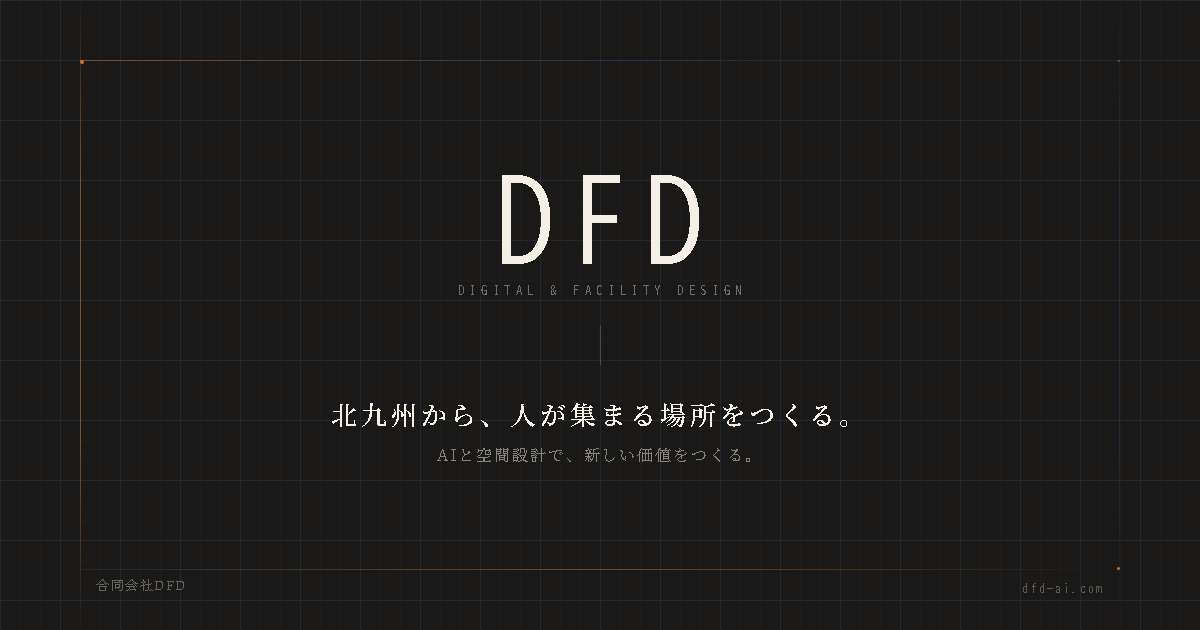
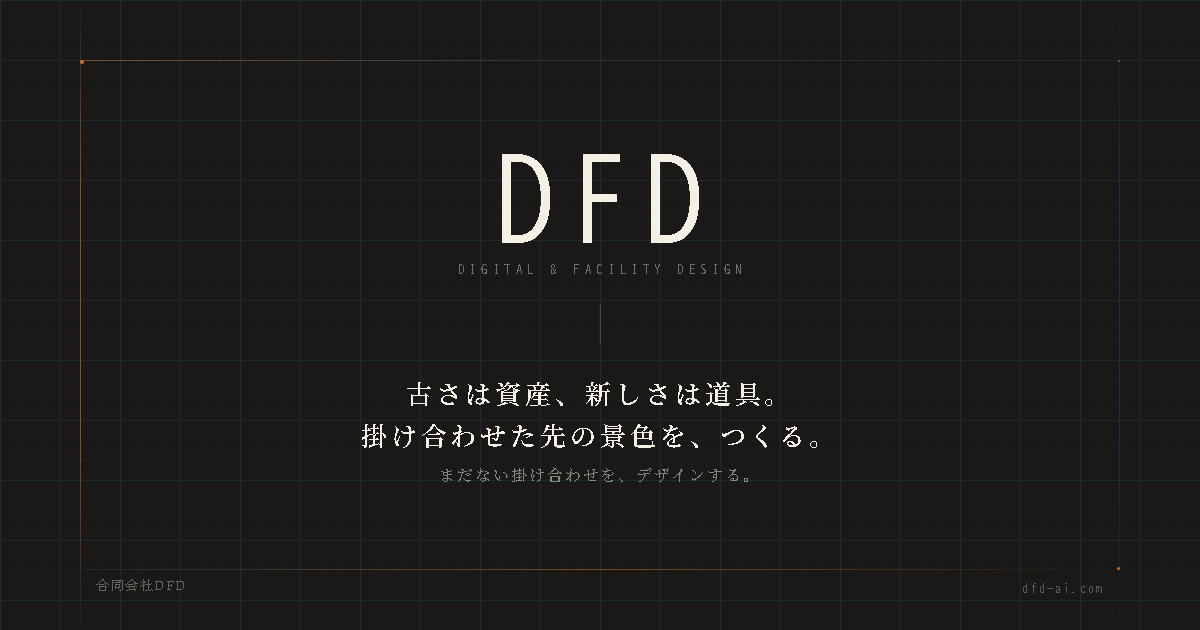
feat: 経営理念・コピーを新メッセージに全面改訂
- メインコピーを「古さは資産、新しさは道具。掛け合わせた先の景色を、つくる。」に統一
- ヒーローを縦書き2列（右→左の読み順）に変更、サブコピーも刷新
- company.html ミッション/バリュー(D→F→D)を新内容に更新、英字ラベル Digital/Facility/Design を追加
- OGP description と ogp.png を新コピーで再生成
- 旧コピー「北九州から〜」「AIと空間設計で〜」を全ページから削除

Changed region(s): [[0.2775, 0.6032, 0.7092, 0.754], [0.4008, 0.2413, 0.5858, 0.4222], [0.5858, 0.7238, 0.6167, 0.754]]

diff --git a/company.html b/company.html
@@ -9,7 +9,7 @@
   <!-- OGP -->
   <meta property="og:type"        content="article">
   <meta property="og:title"       content="会社概要 — 合同会社DFD">
-  <meta property="og:description" content="合同会社DFDの会社概要。北九州市を拠点に、民泊・不動産再生・AIソリューション・Webマーケティングを手がけます。">
+  <meta property="og:description" content="古さは資産、新しさは道具。掛け合わせた先の景色を、つくる。合同会社DFDの会社概要・経営理念。">
   <meta property="og:url"         content="https://dfd-ai.com/company.html">
   <meta property="og:image"       content="https://dfd-ai.com/ogp.png">
   <meta name="twitter:card"       content="summary_large_image">
@@ -158,8 +158,18 @@
       font-size: 18px;
       font-weight: 600;
       color: var(--sumi);
-      margin-bottom: 10px;
+      margin-bottom: 6px;
       line-height: 1.5;
+    }
+
+    .value-en {
+      font-family: var(--font-mono);
+      font-size: 10px;
+      font-weight: 400;
+      letter-spacing: 0.25em;
+      text-transform: uppercase;
+      color: var(--aitetsu);
+      margin-bottom: 12px;
     }
 
     .value-body {
@@ -228,7 +238,7 @@
     <!-- ミッション -->
     <div class="phil-block fade-in">
       <p class="phil-block-label">Mission — 存在意義</p>
-      <p class="phil-block-text">北九州から、人が集まる場所をつくる。</p>
+      <p class="phil-block-text">古さは資産、新しさは道具。<br>掛け合わせた先の景色を、つくる。</p>
     </div>
 
     <div class="phil-sep" aria-hidden="true"></div>
@@ -249,21 +259,24 @@
         <div class="value-item">
           <div class="value-letter" aria-hidden="true">D</div>
           <div class="value-content">
-            <p class="value-title">道具は最先端、商いは誠実に。</p>
+            <p class="value-en">Digital</p>
+            <p class="value-title">最先端の技術で、新しい景色をつくる。</p>
             <p class="value-body">AIや新しい技術は徹底的に使う。ただし主役はあくまで人と場所。技術で奇をてらわない。</p>
           </div>
         </div>
         <div class="value-item">
           <div class="value-letter" aria-hidden="true">F</div>
           <div class="value-content">
-            <p class="value-title">壊さず、活かす。</p>
+            <p class="value-en">Facility</p>
+            <p class="value-title">場所に意味を与え、人の集まる場をつくる。</p>
             <p class="value-body">スクラップ＆ビルドではなく再生。古い建物に新しい役割を与える。</p>
           </div>
         </div>
         <div class="value-item">
           <div class="value-letter" aria-hidden="true">D</div>
           <div class="value-content">
-            <p class="value-title">小さく試し、早く学ぶ。</p>
+            <p class="value-en">Design</p>
+            <p class="value-title">企画の力で、まだ無い価値をつくる。</p>
             <p class="value-body">大きな賭けはしない。撤退の基準を決めてから始め、学びを次に活かす。</p>
           </div>
         </div>
@@ -346,8 +359,8 @@
 <!-- ミッション -->
 <div class="mission-band">
   <blockquote class="fade-in">
-    北九州から、人が集まる場所をつくる。<br>
-    AIと空間設計で、新しい価値をつくる。
+    古さは資産、新しさは道具。<br>
+    掛け合わせた先の景色を、つくる。
     <cite>— DFD Mission Statement</cite>
   </blockquote>
 </div>

diff --git a/index.html b/index.html
@@ -4,12 +4,12 @@
   <meta charset="UTF-8">
   <meta name="viewport" content="width=device-width, initial-scale=1.0">
   <title>合同会社DFD — Digital &amp; Facility Design</title>
-  <meta name="description" content="北九州を拠点に、民泊・不動産再生・AIソリューション・Webマーケティングで人が集まる場所をつくる合同会社DFDの公式サイトです。">
+  <meta name="description" content="古さは資産、新しさは道具。掛け合わせた先の景色を、つくる。北九州を拠点に、民泊・不動産再生・AIソリューション・Webマーケティングを手がける合同会社DFDの公式サイトです。">
 
   <!-- OGP -->
   <meta property="og:type"        content="website">
   <meta property="og:title"       content="合同会社DFD — Digital &amp; Facility Design">
-  <meta property="og:description" content="北九州から、人が集まる場所をつくる。AIと空間設計で、新しい価値をつくる。">
+  <meta property="og:description" content="古さは資産、新しさは道具。掛け合わせた先の景色を、つくる。合同会社DFD — Digital & Facility Design">
   <meta property="og:url"         content="https://dfd-ai.com/">
   <meta property="og:image"       content="https://dfd-ai.com/ogp.png">
   <meta name="twitter:card"       content="summary_large_image">
@@ -74,27 +74,27 @@
       margin: 32px auto;
     }
 
-    /* メインコピー */
+    /* メインコピー（縦書き2列） */
     .hero-copy-wrap {
       display: flex;
+      flex-direction: row-reverse;
       justify-content: center;
+      gap: 20px;
     }
 
     .hero-copy {
+      writing-mode: vertical-rl;
       font-family: var(--font-mincho);
       font-size: clamp(20px, 3.5vw, 32px);
       font-weight: 600;
       color: var(--kinari);
       letter-spacing: 0.15em;
-      line-height: 1.8;
-      text-align: center;
-      padding: 0 16px;
+      line-height: 1.6;
     }
 
-    .sp-only { display: none; }
-
     @media (max-width: 480px) {
-      .sp-only { display: inline; }
+      .hero-copy-wrap { gap: 12px; }
+      .hero-copy { font-size: clamp(18px, 6vw, 26px); }
     }
 
     .hero-sub {
@@ -292,9 +292,10 @@
     <div class="hero-logo-sub">Digital &amp; Facility Design</div>
     <div class="hero-divider" aria-hidden="true"></div>
     <div class="hero-copy-wrap">
-      <p class="hero-copy">北九州から、<br class="sp-only">人が集まる場所をつくる。</p>
+      <p class="hero-copy">古さは資産、新しさは道具。</p>
+      <p class="hero-copy">掛け合わせた先の景色を、つくる。</p>
     </div>
-    <p class="hero-sub">AIと空間設計で、新しい価値をつくる。</p>
+    <p class="hero-sub">まだない掛け合わせを、デザインする。</p>
     <div class="hero-cta">
       <a href="services.html" class="btn btn--light">事業内容を見る</a>
     </div>

diff --git a/ogp-gen.html b/ogp-gen.html
@@ -194,8 +194,8 @@
     <div class="logo-dfd">DFD</div>
     <div class="logo-en">Digital &amp; Facility Design</div>
     <div class="divider"></div>
-    <div class="tagline-ja">北九州から、人が集まる場所をつくる。</div>
-    <div class="tagline-sub">AIと空間設計で、新しい価値をつくる。</div>
+    <div class="tagline-ja">古さは資産、新しさは道具。<br>掛け合わせた先の景色を、つくる。</div>
+    <div class="tagline-sub">まだない掛け合わせを、デザインする。</div>
   </div>
 
   <div class="company">合同会社DFD</div>